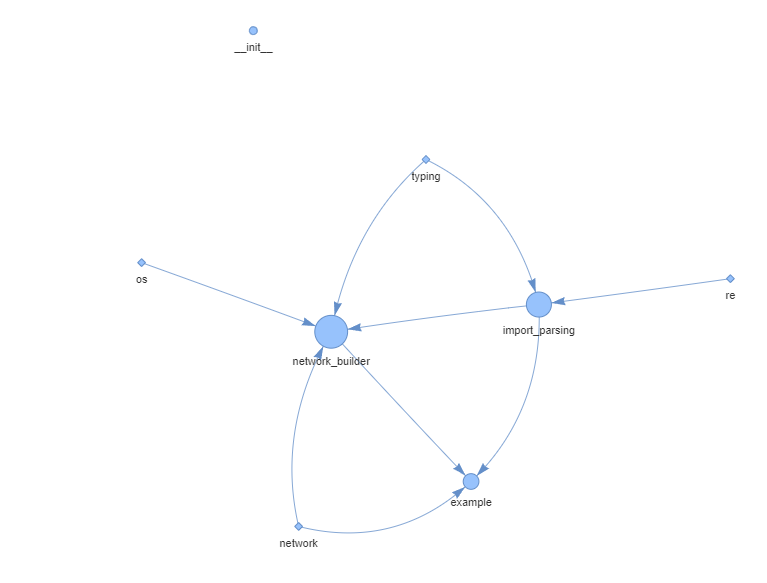
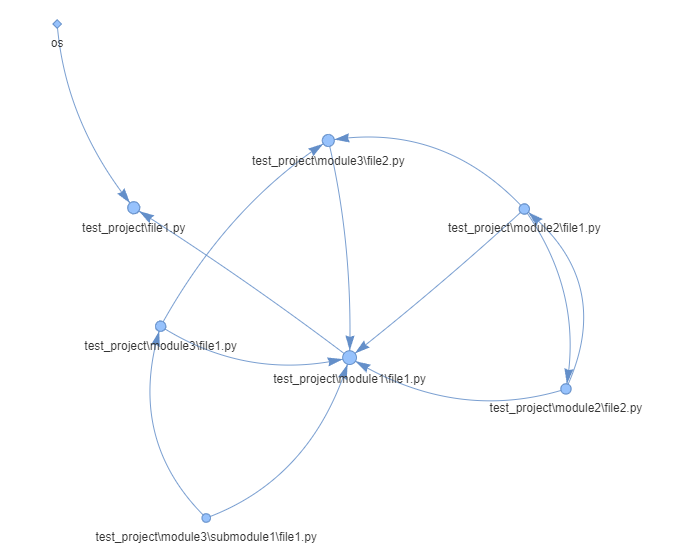
overhaul

diff --git a/codeweb/network_builder.py b/codeweb/network_builder.py
@@ -17,27 +17,24 @@ Outputs are:
 For usage example see example.py
 
 """
-
-
 import os
 from typing import List
 from pyvis.network import Network
 
-from .import_parsing import ImportStyle
+from .import_parsing.import_style import ImportStyle, ImportFile
 
 
 class SourceFile():
     """ Holds filename and text for a single source file
     """
-    def __init__(self, name:str, lines:List[str]) -> None:
-        self.name = name.split('.')[0] if '.' in name else name
+    def __init__(self, path:str, name:str, lines:List[str]) -> None:
+        self.path = os.path.abspath(os.path.join(path, name))
+        self.name = name.split('.')[0]
         self.extension = name.split('.')[1] if '.' else None
-        self.full_name = name
         self.lines = lines
 
     def __len__(self) -> int:
         return len(self.lines)
-    
 
 class NetworkBuilder:
     def __init__(self, network: Network, import_styles: List[ImportStyle], ignore_external_imports=True) -> None:
@@ -46,6 +43,8 @@ class NetworkBuilder:
         self.ignore_external_imports = ignore_external_imports
 
     def create_network(self, project_path:str):
+        self.project_abs_path = os.path.abspath(project_path)
+        self.project_path_stub = self.project_abs_path.split(project_path)[0]
         source_files = self.__scan_for_files(project_path)
         return self.__populate_network(source_files)
 
@@ -61,43 +60,48 @@ class NetworkBuilder:
             for filename in files:
                 if any([filename.endswith(extension) for extension in extensions]):
                     with open(os.path.join(root,filename), 'r') as text:
-                        source_files.append(SourceFile(filename, text.readlines()))
+                        source_files.append(SourceFile(root, filename, text.readlines()))
 
         return source_files
-    
+
     def __populate_network(self, source_files:List[SourceFile]) -> List[str]:
         for file in source_files:
             self.__add_source_file(file)
-            
+        
         for file in source_files:
             for line in file.lines:
                 for import_style in self.import_styles:
-                    for imported_file in import_style.get_imported_files(line):
-                        is_external = not any([imported_file == dir_file.name for dir_file in source_files])
+                    for import_file in import_style.get_imported_files(file.path, line):
                         self.__add_import(
                             source_file=file, 
-                            imported_file_name=imported_file, 
-                            is_external=is_external
+                            import_file=import_file
                         )
 
         return self.network
     
     def __add_source_file(self, file:SourceFile) -> None:
-        if not self.__node_exists(file.name):
-            self.network.add_node(file.name, size=5+round(len(file)**0.6))
+        node_name = self.__get_node_name_from_absolute_path(file.path)
+
+        if not self.__node_exists(node_name):
+            self.network.add_node(node_name, size=5+round(len(file)**0.6))
     
-    def __add_import(self, source_file: SourceFile, imported_file_name: str, is_external: bool):
-        if imported_file_name == source_file.name:
+    def __add_import(self, source_file: SourceFile, import_file: ImportFile):
+        if import_file.is_external and self.ignore_external_imports:
             return
         
-        if self.ignore_external_imports and is_external:
-            return
-        
-        if is_external:
-            self.network.add_node(imported_file_name, size=5, shape='diamond')
-        
-        self.network.add_edge(imported_file_name, source_file.name)
+        source_node_name = self.__get_node_name_from_absolute_path(source_file.path)
+        if import_file.is_external:
+            import_node_name = import_file.path
+        else:
+            import_node_name = self.__get_node_name_from_absolute_path(import_file.path)
+            
+        if import_file.path != source_file.path:
+            self.network.add_node(import_node_name, size=5, shape='diamond')
+            self.network.add_edge(import_node_name, source_node_name)
     
+    def __get_node_name_from_absolute_path(self, abs_path: str) -> str:
+        return abs_path.split(self.project_path_stub)[1]
+
     def __node_exists(self, id:str) -> bool:
             return any([node == id for node in self.network.get_nodes()])
         

diff --git a/codeweb/import_parsing/import_style.py b/codeweb/import_parsing/import_style.py
@@ -1,6 +1,7 @@
 import re
 from typing import List, Callable
 
+        
 class ImportStyle:
     """ ImportStyle encapsulates the logic for two things:
             1. Detecting lines that are imports
@@ -16,39 +17,22 @@ class ImportStyle:
         Args:
             - extensions (list): File extensions that this style applies to (eg ['.py']) 
             - regex (str): a regular expression that will match an import/include statement
-            - parse_function (Callable): a function that will return the list of imported files
-                from any string that matches the regex
+            - parse_function (Callable): a function that will return the list of Import objects
+                from an import statement and the path of the source file it came from
         """
         self.extenions = extensions
         self.regex = regex
         self.parse = parse_function
     
-    def get_imported_files(self, line) -> List[str]:
+    def get_imported_files(self, source_file_path, line) -> List[str]:
         if not re.match(self.regex, line):
             return []
         else:
-            return self.parse(line)
-        
+            return self.parse(source_file_path, line)
 
-# Python Import Styles:
-
-def parse_python_standard_import(text):
-    imports = []
-    text = text[len('import '):]
-    words = text.split(',') if ',' in text else [text]
-    for word in words:
-        imports.append(word.split('.')[-1].strip())
-    return imports
-
-def parse_python_from_import(text):
-    words = text.split()
-    return [words[1].split('.')[-1].strip()]
-
-python_import_styles = [
-    ImportStyle(extensions=['.py'],
-                regex='^import .+', 
-                parse_function=parse_python_standard_import),
-    ImportStyle(extensions=['.py'],
-                regex='^from .+ import .+', 
-                parse_function=parse_python_from_import)
-]
+class ImportFile():
+    """ Represents a single imported file. 
+    """
+    def __init__(self, path: str, is_external:bool):
+        self.path = path
+        self.is_external = is_external

diff --git a/codeweb/import_parsing/parsers/python_parsers.py b/codeweb/import_parsing/parsers/python_parsers.py
@@ -1,0 +1,39 @@
+import os
+from typing import List
+from codeweb.import_parsing.import_style import ImportFile
+
+# Utils ------------------------------------------------------------------------------------
+def get_abs_path_from_python_import(source_file_path: str, imported_module: str) -> str:
+    if imported_module.startswith('.'):
+        while imported_module.startswith('.'):
+            imported_module = imported_module[1:]
+            source_file_path = os.path.join(source_file_path, '..')
+    else:
+        source_file_path = os.path.join(source_file_path, '..')
+        
+    relative_path = '\\'.join(imported_module.split('.'))
+    return  os.path.abspath(os.path.join(source_file_path, relative_path))+'.py'
+
+def build_python_import_file(source_file_path: str, imported_module: str) -> ImportFile:
+    """ Returns an Import object, given a source file path and imported module.
+    """
+    abs_path = get_abs_path_from_python_import(source_file_path, imported_module)
+    if os.path.exists(abs_path):
+        return ImportFile(path=abs_path, is_external=False)
+    else:
+        return ImportFile(path=imported_module, is_external=True)
+
+# Parsers ------------------------------------------------------------------------------------
+def parse_import_x(source_file_path: str, text: str) -> List[ImportFile]:
+    text = text[len('import '):]
+    import_list = [imported_module.strip() for imported_module in text.split(',')]
+
+    imports = []
+    for imported_module in import_list:
+        imports.append(build_python_import_file(source_file_path, imported_module))
+
+    return imports
+
+def parse_from_y_import_x(source_file_path: str, text: str) -> List[ImportFile]:
+    imported_module = text.split()[1].strip()
+    return [build_python_import_file(source_file_path, imported_module)]

diff --git a/example.py b/example.py
@@ -1,7 +1,6 @@
 from codeweb.network_builder import NetworkBuilder
-from codeweb.import_parsing import python_import_styles
+from codeweb.import_parsing.styles.python_styles import python_import_styles
 from pyvis.network import Network
-
 
 if __name__ == '__main__':
     # Create a new Network with desired settings
@@ -10,5 +9,5 @@ if __name__ == '__main__':
 
     # Scan project directory and populate network, export to html
     nb = NetworkBuilder(network=empty_network, import_styles=python_import_styles, ignore_external_imports=False)
-    populated_network = nb.create_network(project_path='.')
+    populated_network = nb.create_network(project_path='test_project')
     populated_network.show('example.html', notebook=False)

diff --git a/codeweb/import_parsing/styles/python_styles.py b/codeweb/import_parsing/styles/python_styles.py
@@ -1,0 +1,12 @@
+from typing import List
+from ..import_style import ImportStyle
+from ..parsers.python_parsers import parse_import_x, parse_from_y_import_x
+
+python_import_styles: List[ImportStyle] = [
+    ImportStyle(extensions=['.py'],
+                regex='^import .+', 
+                parse_function=parse_import_x),             
+    ImportStyle(extensions=['.py'],
+                regex='^from .+ import .+', 
+                parse_function=parse_from_y_import_x)
+]

diff --git a/test_project/module1/file1.py b/test_project/module1/file1.py
@@ -1,0 +1,5 @@
+from ..module2.file1 import *
+from ..module2.file2 import *
+from ..module3.file1 import *
+from ..module3.file2 import *
+from ..module3.submodule1.file1 import *

diff --git a/test_project/module3/file2.py b/test_project/module3/file2.py
@@ -1,0 +1,2 @@
+from file1 import *
+from ..module2.file1 import *

diff --git a/test_project/file1.py b/test_project/file1.py
@@ -1,0 +1,2 @@
+from module1.file1 import *
+import os

diff --git a/test_project/module3/file1.py b/test_project/module3/file1.py
@@ -1,0 +1,1 @@
+from .submodule1.file1 import *

diff --git a/test_project/module2/file1.py b/test_project/module2/file1.py
@@ -1,0 +1,1 @@
+from file2 import *

diff --git a/test_project/module2/file2.py b/test_project/module2/file2.py
@@ -1,0 +1,1 @@
+from file1 import *

diff --git a/README.md b/README.md
@@ -9,7 +9,7 @@ Built around the pyvis, docs: https://pyvis.readthedocs.io/en/latest/
 ### Example
 ```python
   from codeweb.network_builder import NetworkBuilder
-  from codeweb.import_parsing import python_import_styles
+  from codeweb.import_parsing.styles.python_styles import python_import_styles
   from pyvis.network import Network
 
   # Create a new Network with desired settings
@@ -24,33 +24,11 @@ Built around the pyvis, docs: https://pyvis.readthedocs.io/en/latest/
 
 ### Scanning Other Languages
 Only python is added by default, but this project is organized to make adding new languages
-very straighforward. To use codeweb on other languages, you just need to use the ImportStyle class (import_parsing.py):
+relatively straighforward. To use codeweb on other languages, you just need to use the ImportStyle class (import_parsing/import_style.py).
 
+An ImportStyle provides functionality for detecting import statements and parsing them. 
 
-```python
-# Example: Creating an ImportStyle for python's 'from x.y.z import w' imports:
-
-# To make an ImportStyle, you need three things:
-
-# 1. File Extensions - This list of file extensions this pattern applies to
-extensions = ['.py']
-
-# 2. RegEx - A regex string that will match this import style (and only this import style)
-regex = '^from .+ import .+'
-
-# 3. Parsing Function - A function returning the list of imported files from regex-matched text
-def parse_matched_text(text: str) -> List[str]:
-                                                # "from x.y.z import w" 
-    imported_name = text.split()[1].strip()     # "x.y.z" 
-    module_name = imported_name.split('.')[-1]  # "z"
-    return [module_name]                        # ["z"]
-
-# Create the ImportStyle
-parse_from_x_import_y = ImportStyle(extensions, regex, parse_matched_text)
-
-# Use the custom ImportStyle
-nb = NetworkBuilder(network=empty_network, import_styles=[parse_from_x_import_y])
-```
+For examples, see import_parsing/styles/python_styles.py and import_parsing/parsers/python_parsers.py
 
 ### Example Output
 To tweak graph settings, configure the pyvis Network object before passing it to NetworkBuilder
